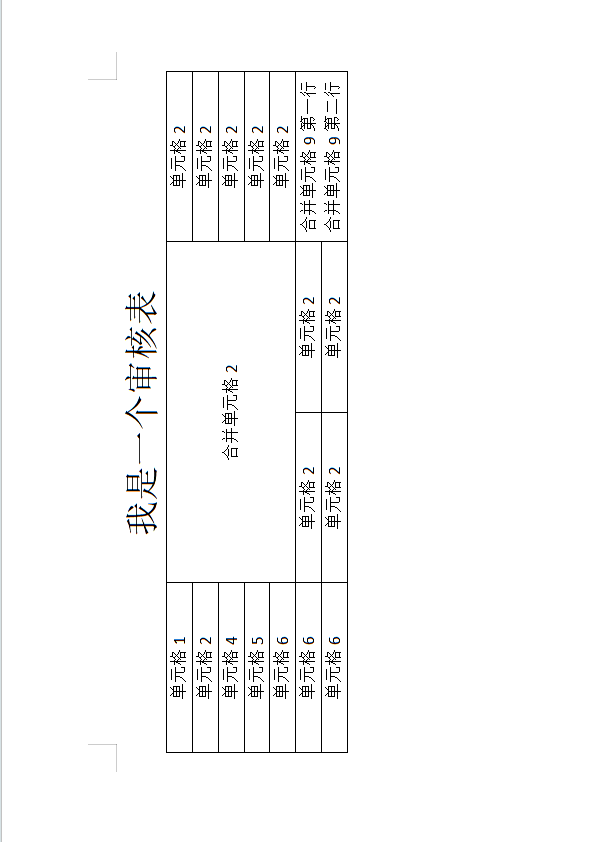
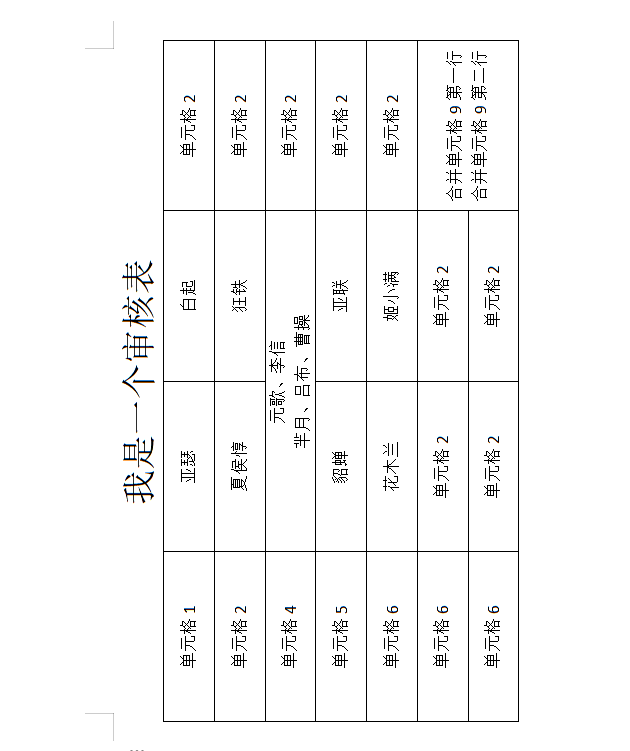
feat: add ONNX and OM models for all chip types

diff --git a/README.md b/README.md
@@ -43,7 +43,7 @@ engine = AscendOCR(
     device_id=0,
 )
 
-results, angle = engine.ocr("test.png")
+results, angle = engine.ocr("table.png")
 for r in results:
     print(r.text, r.score)
 
@@ -64,7 +64,7 @@ cfg = OCRConfig(
 )
 engine = AscendOCR(cfg)
 
-regions, region_ocr_results, clusters, angle = engine.layout_ocr("test.png")
+regions, region_ocr_results, clusters, angle = engine.layout_ocr("table.png")
 
 for region, ocr_lines in region_ocr_results:
     print(f"[{region.class_name}] {region.bbox}")
@@ -205,7 +205,7 @@ uvicorn api.app:app --host 0.0.0.0 --port 13502
 ```bash
 curl -X POST \
   -F "file_id=test1" \
-  -F "file=@test.jpg" \
+  -F "file=@table.png" \
   -F "use_rotate=true" \
   http://localhost:13502/api/ocr
 ```
@@ -251,8 +251,8 @@ curl -X POST \
 ```bash
 curl -X POST \
   -F "file_id=test1" \
-  -F "file=@test.jpg" \
-  -F "score_threshold=0.6" \
+  -F "file=@table.png" \
+  -F "score_threshold=0.5" \
   http://localhost:13502/api/layout-ocr
 ```
 
@@ -515,19 +515,19 @@ docker run -d --restart unless-stopped \
 # 全文识别
 curl -X POST \
   -F "file_id=test1" \
-  -F "file=@docs/test.tif" \
+  -F "file=@docs/table.png" \
   http://localhost:13502/api/ocr
 
 # 版面分析（表格区域自动生成 HTML）
 curl -X POST \
   -F "file_id=test1" \
-  -F "file=@docs/test.tif" \
+  -F "file=@docs/table.png" \
   http://localhost:13502/api/layout-ocr
 
 # 表格结构识别（独立接口，无需版面模型）
 curl -X POST \
   -F "file_id=test1" \
-  -F "file=@docs/test.tif" \
+  -F "file=@docs/table.png" \
   http://localhost:13502/api/table-ocr
 ```
 
